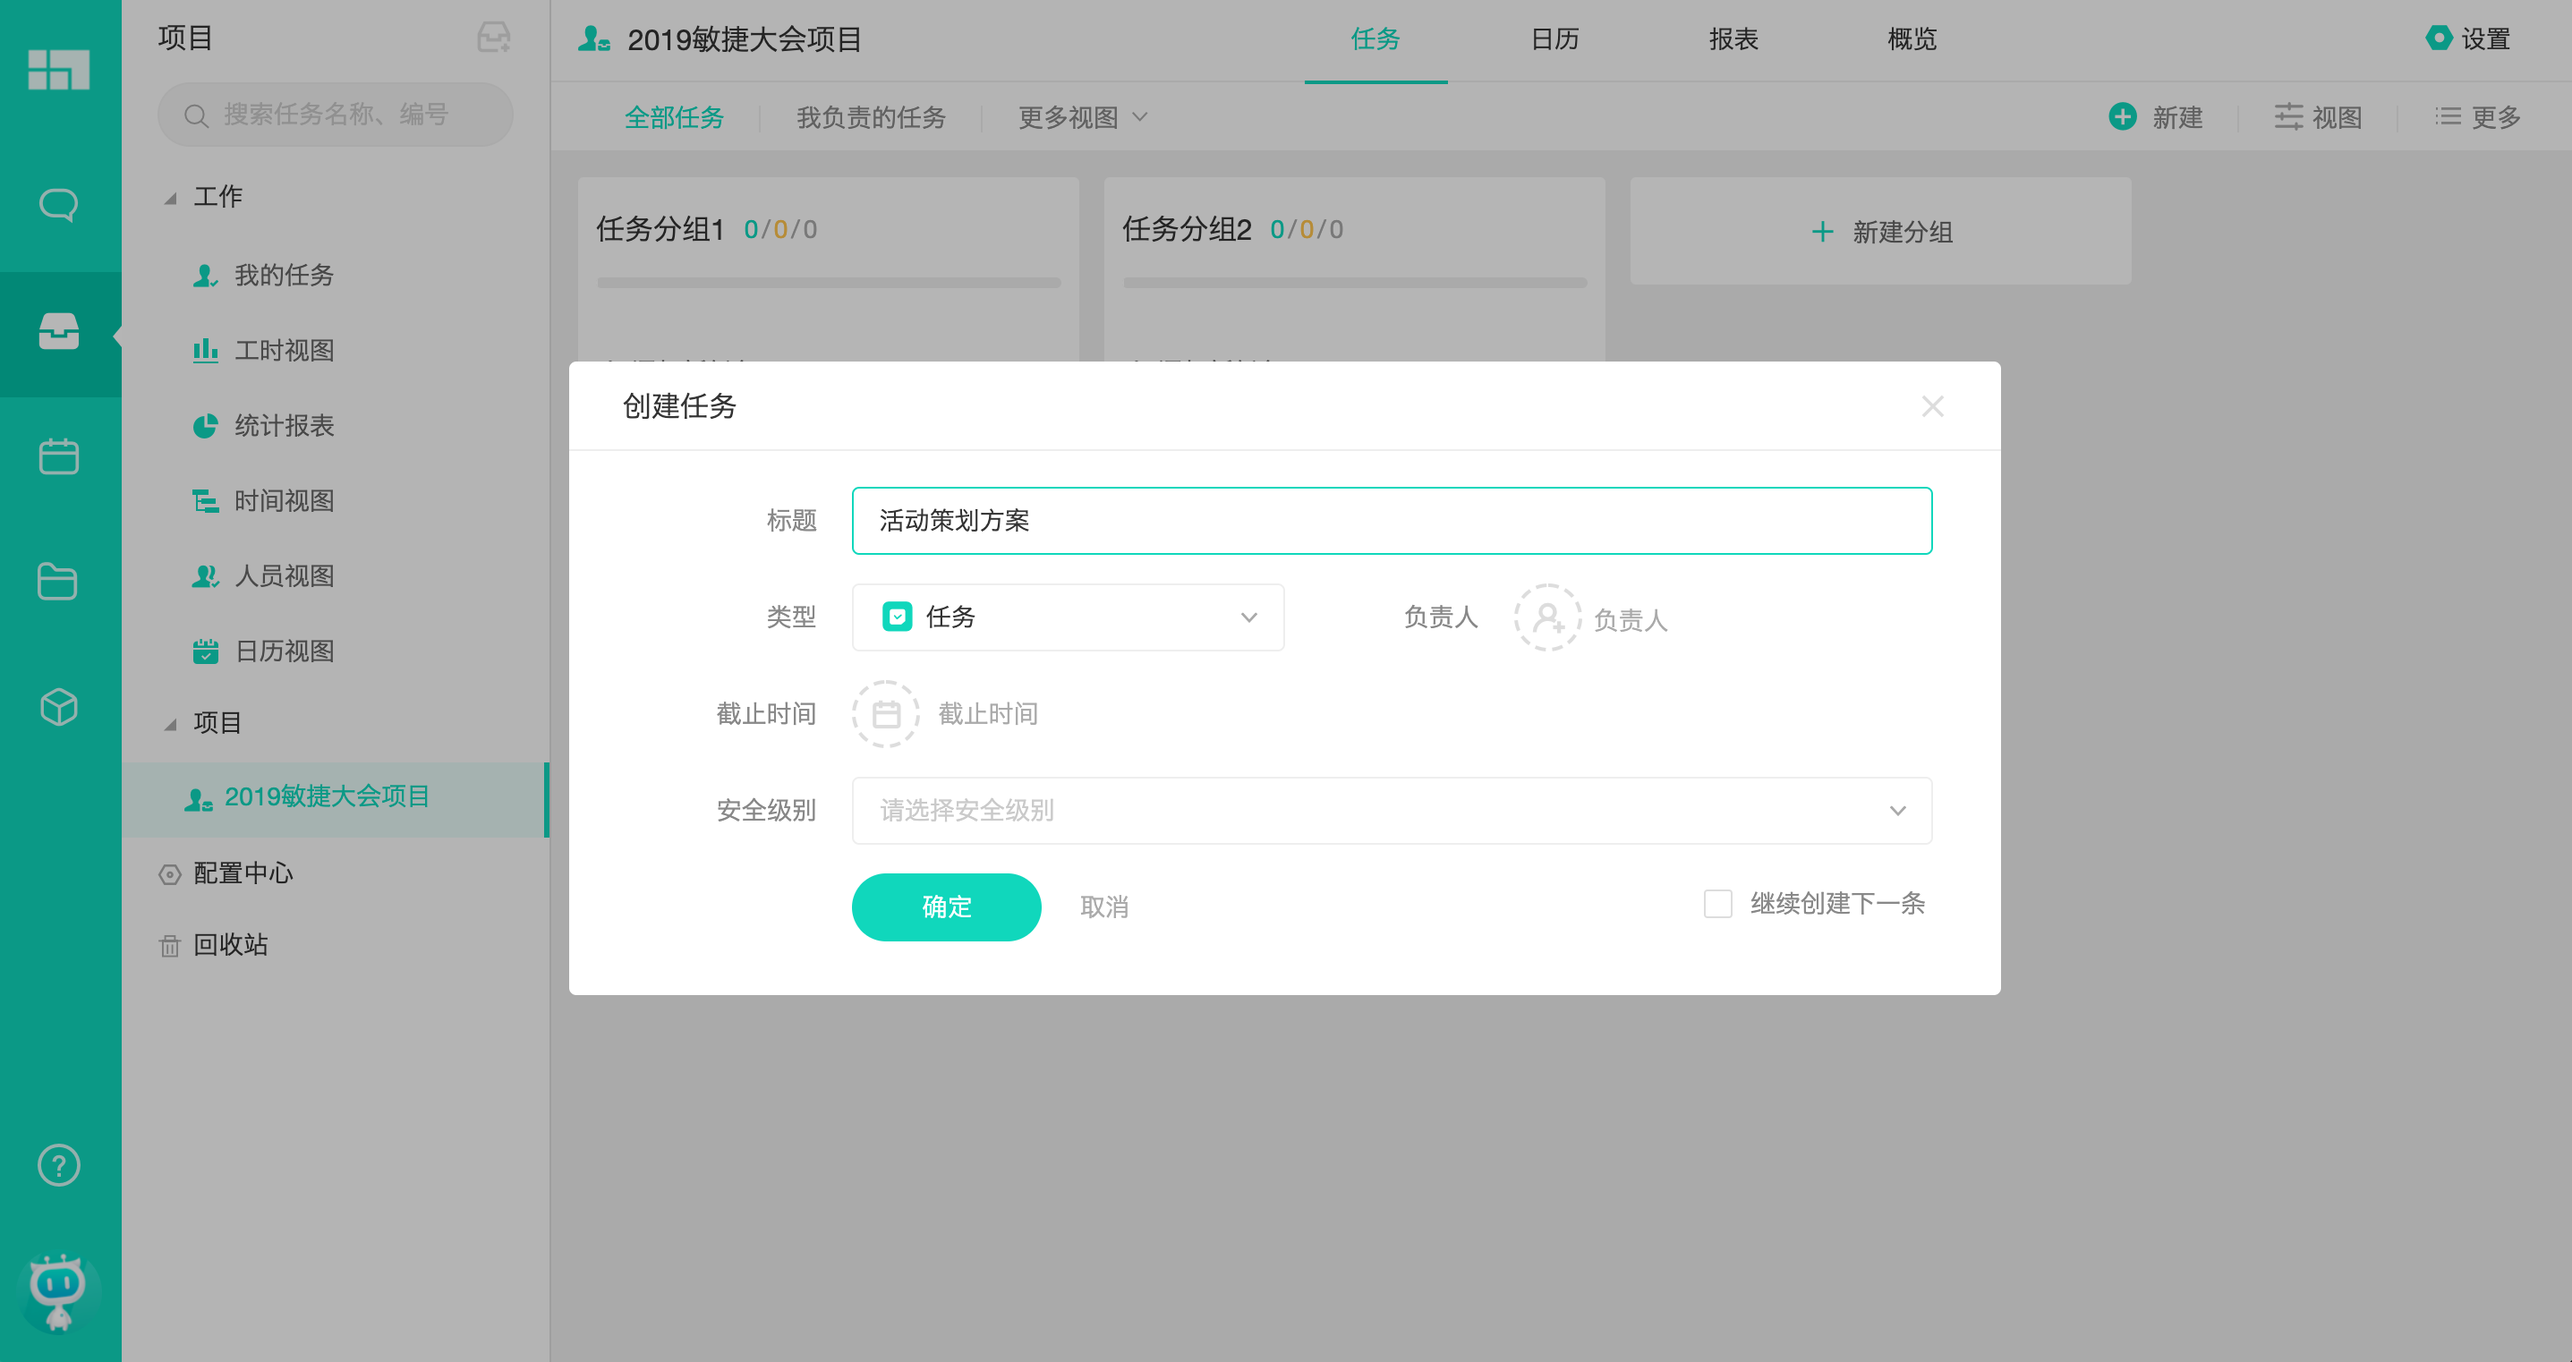
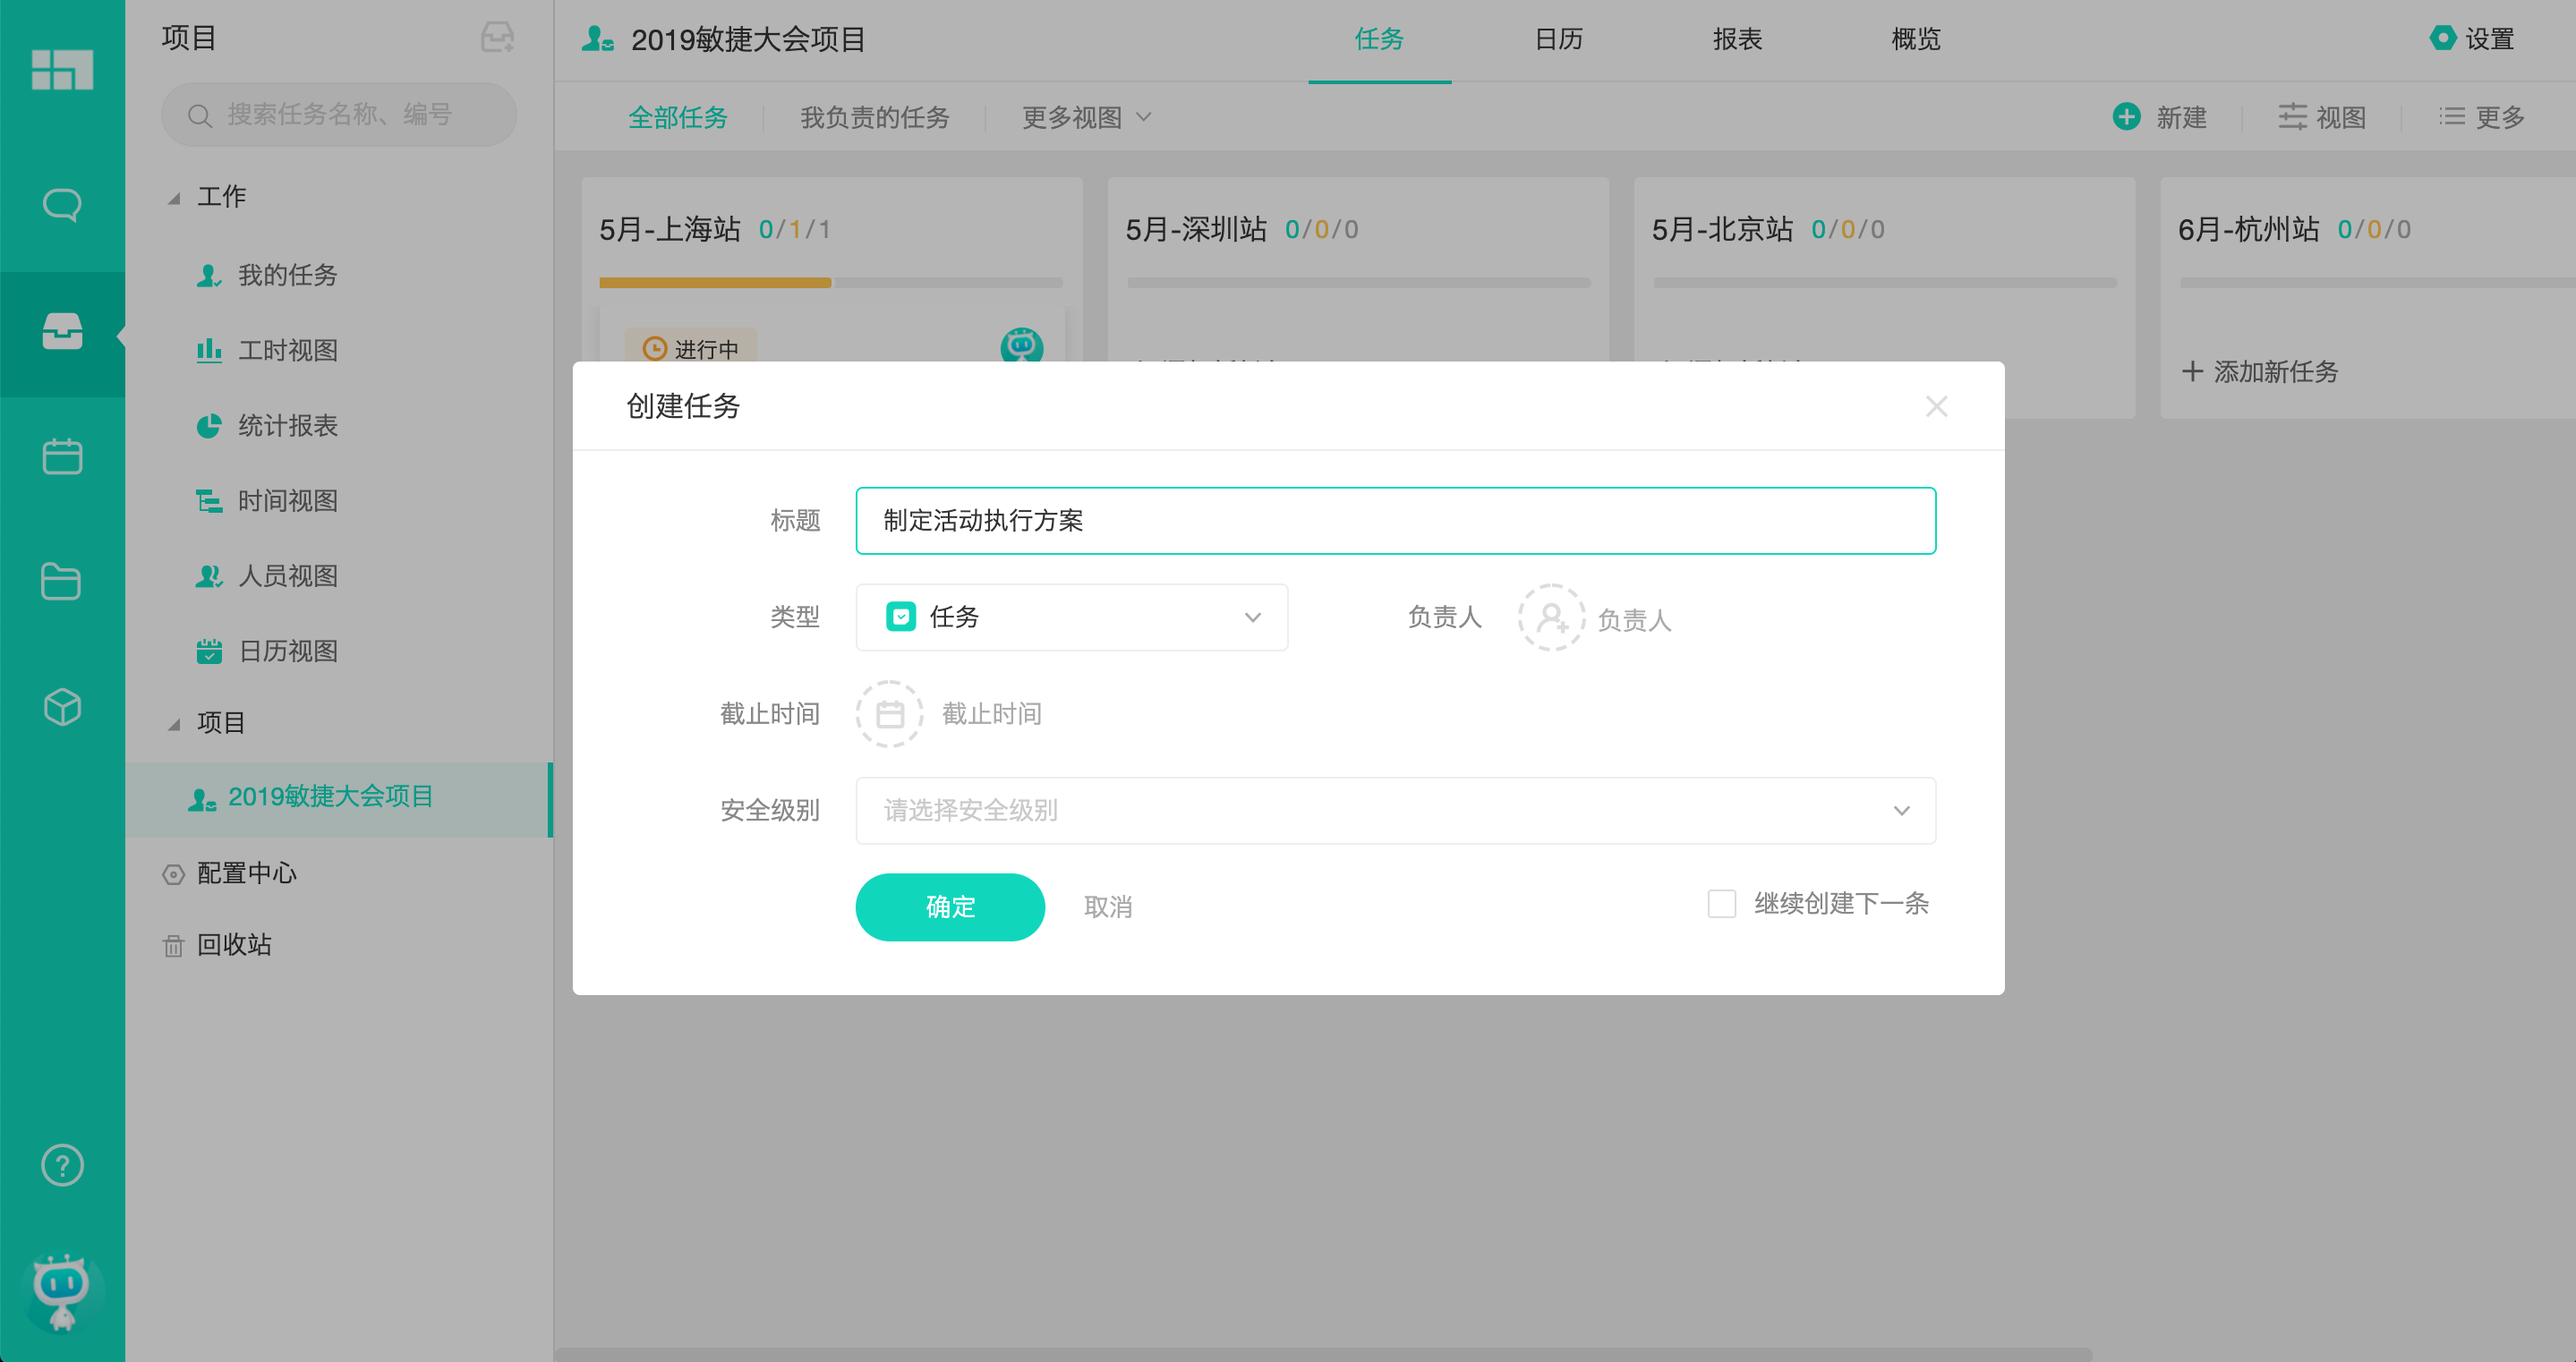
Updates how/project/basic.md
Auto commit by GitBook Editor

diff --git a/how/project/basic.md b/how/project/basic.md
@@ -21,10 +21,10 @@
 
 任务作为项目的基本单元主要是为了承载项目中的所有工作信息，因此，在项目创建完成后，下一步就是将这个项目中的所有工作细化拆分成一个个任务创建在项目中。
 
-> 提示：在进行工作拆分时，为了便于明确责任，最好拆分后的任务有唯一的负责人，这样不仅能做到权责分明更方便进度管理；任务标题要简明扼要以行动为导向，如：
-
+> 提示：在进行工作拆分时，为了便于明确责任，最好拆分后的任务有唯一的负责人，这样不仅能做到权责分明更方便进度管理；任务标题要简明扼要，以行动为导向，如：制定活动执行方案。
 
 ![](/assets/项目-创建任务.png)
+
 
 #### 2. 开始协作
 
